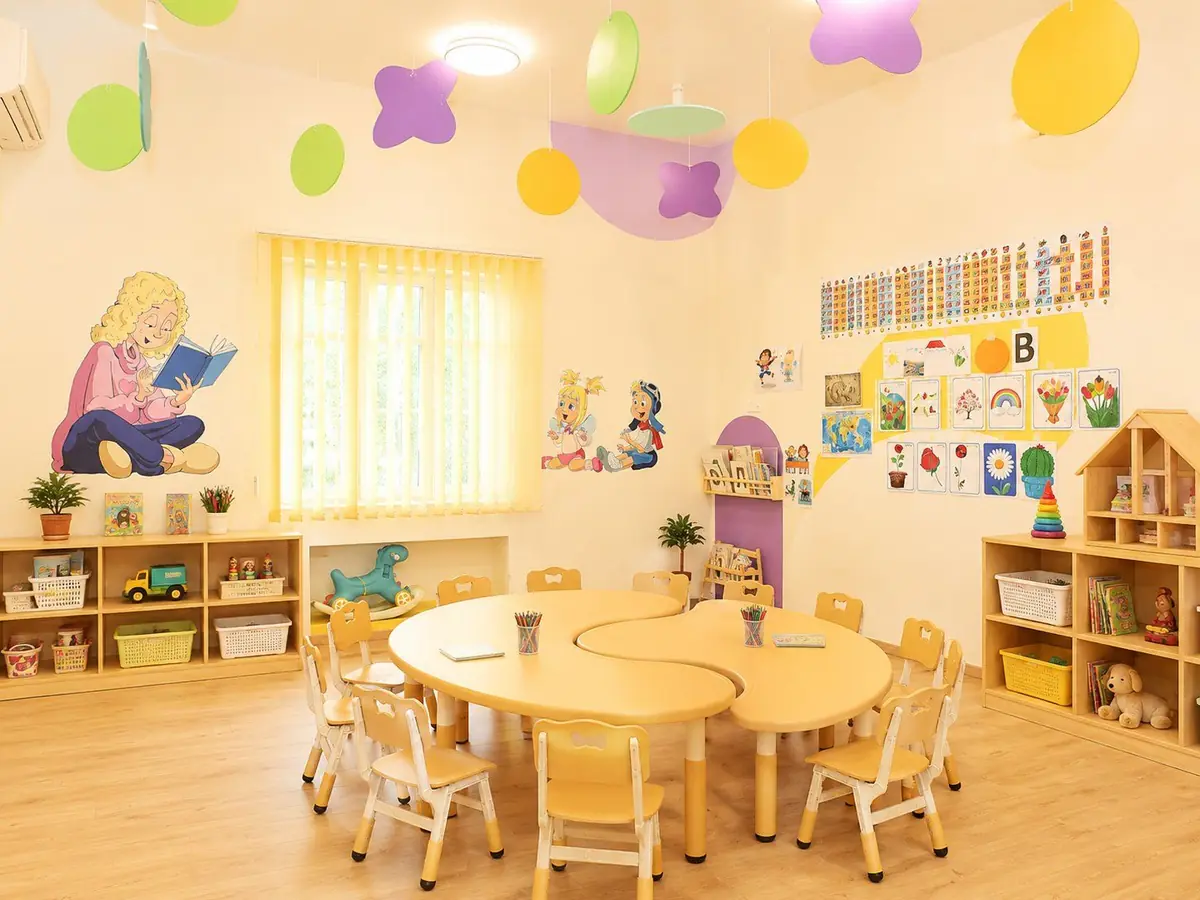
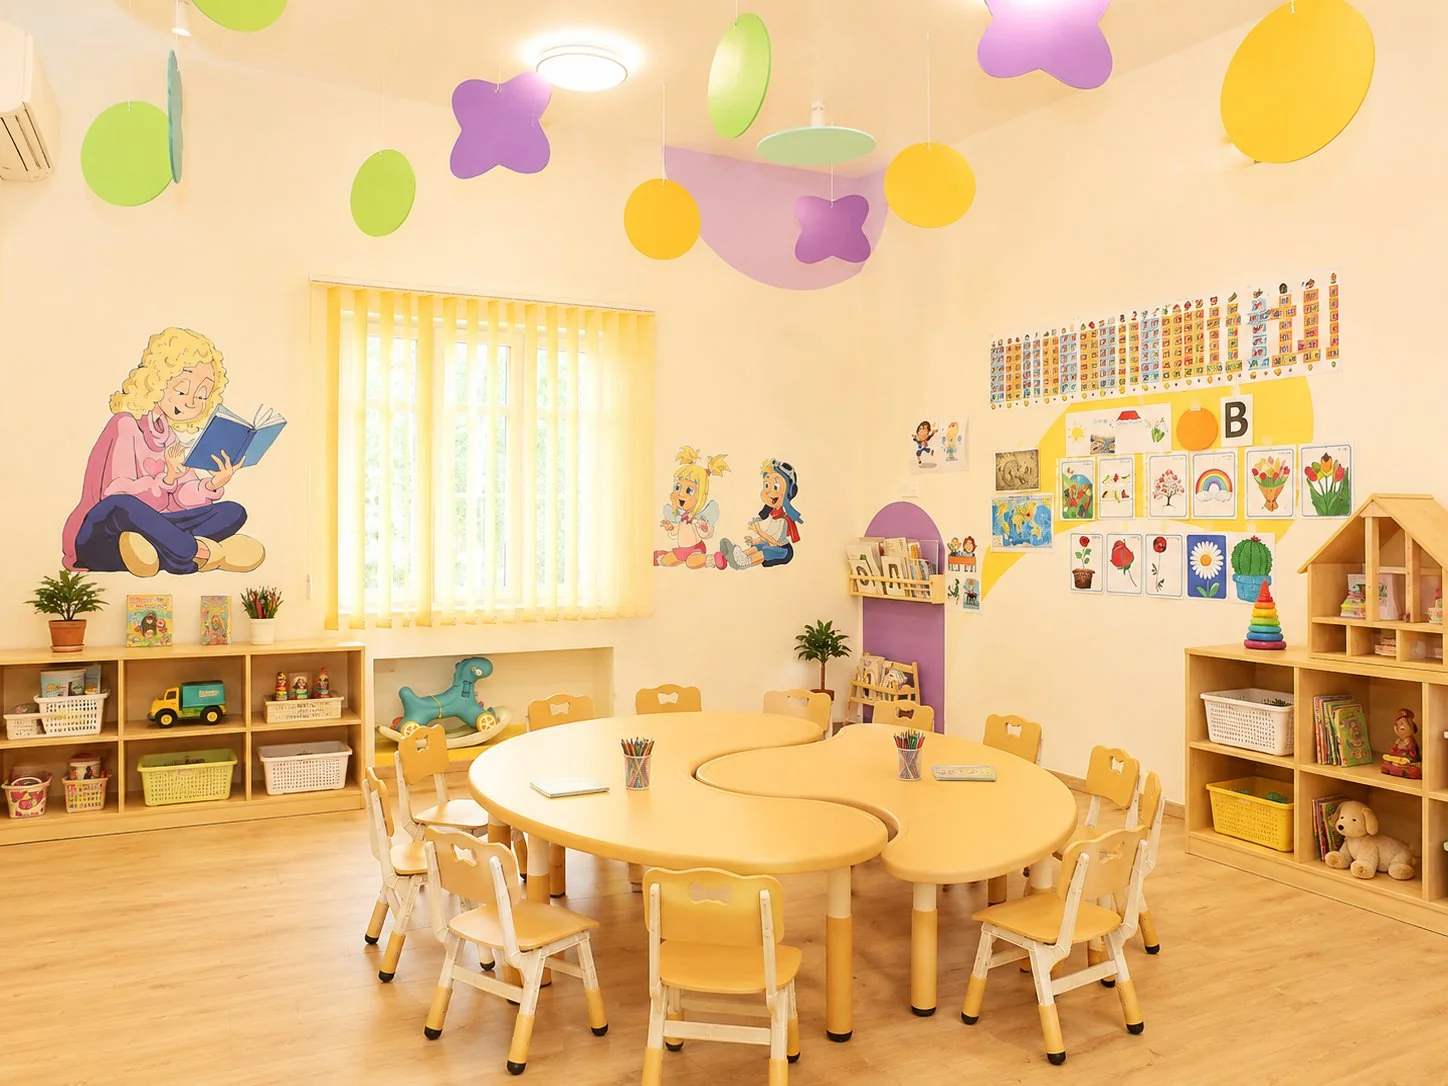
funscool: fix day-photo aspect/crop + re-encode images at higher quality
- The width/height attributes added for CLS leaked in as a presentational
  pixel height on images whose CSS sets only width+aspect-ratio (no explicit
  height) — e.g. the «Как проходит день» photo rendered as a 1389px-tall,
  wrongly-cropped strip. Add height:auto to the global img rule so the
  attributes only carry the ratio and CSS aspect-ratio/object-fit control the
  box. Images with explicit CSS height are unaffected (higher specificity).
- Re-encode the 14 page photos from the pristine originals at high quality
  (WebP q84–88) instead of the earlier over-aggressive q70–76 — visibly
  crisp again, total ~2.3MB (still well under the original ~2.9MB JPEG).

Claude-Session: https://claude.ai/code/session_01Ti4GS4ybqdHrzcDH13FjM6

diff --git a/funscool/assets/css/style.css b/funscool/assets/css/style.css
@@ -72,7 +72,7 @@ body {
   overflow-x: hidden;
 }
 
-img { max-width: 100%; display: block; }
+img { max-width: 100%; height: auto; display: block; } /* height:auto so width/height attrs set ratio only, letting CSS aspect-ratio/object-fit control the box */
 a { color: inherit; text-decoration: none; }
 button { font-family: inherit; cursor: pointer; }
 
